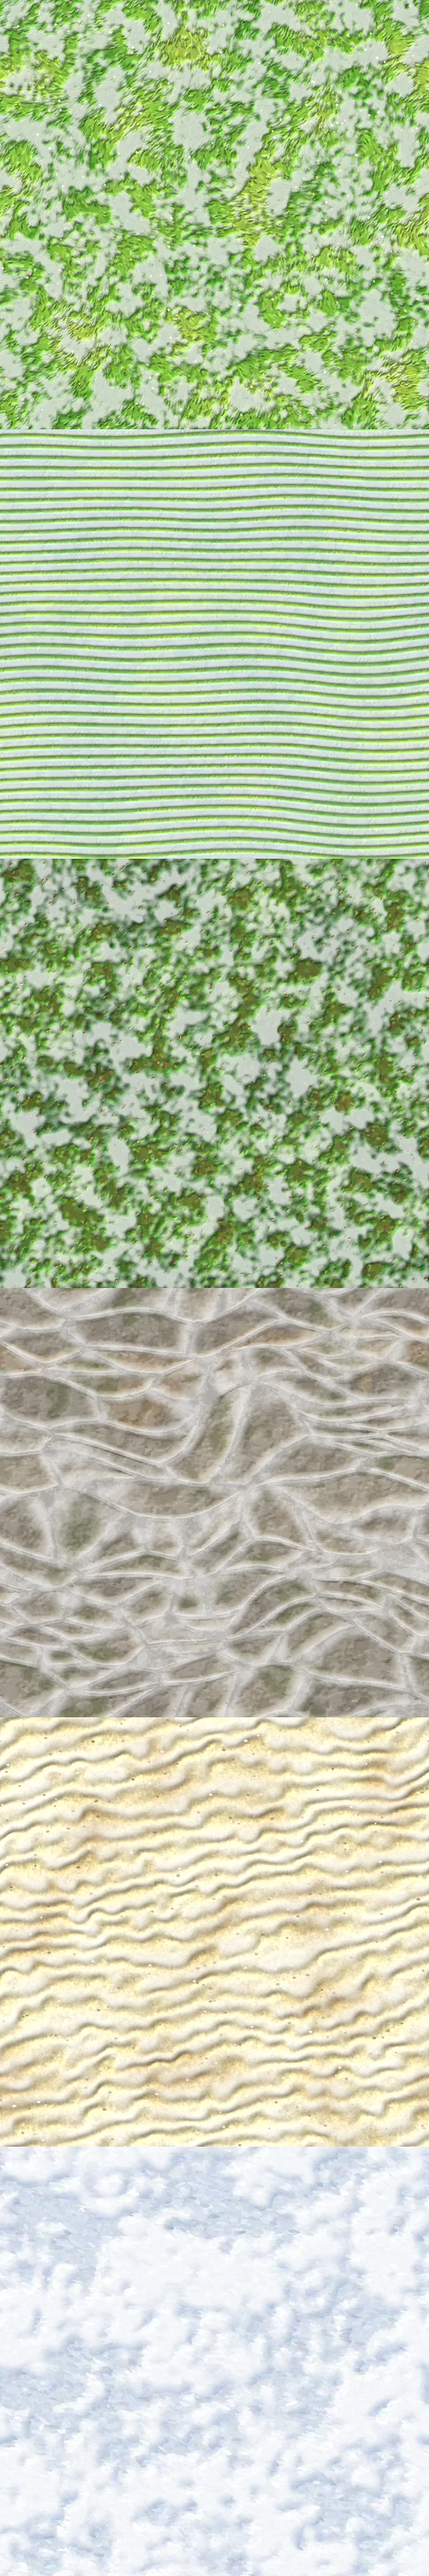
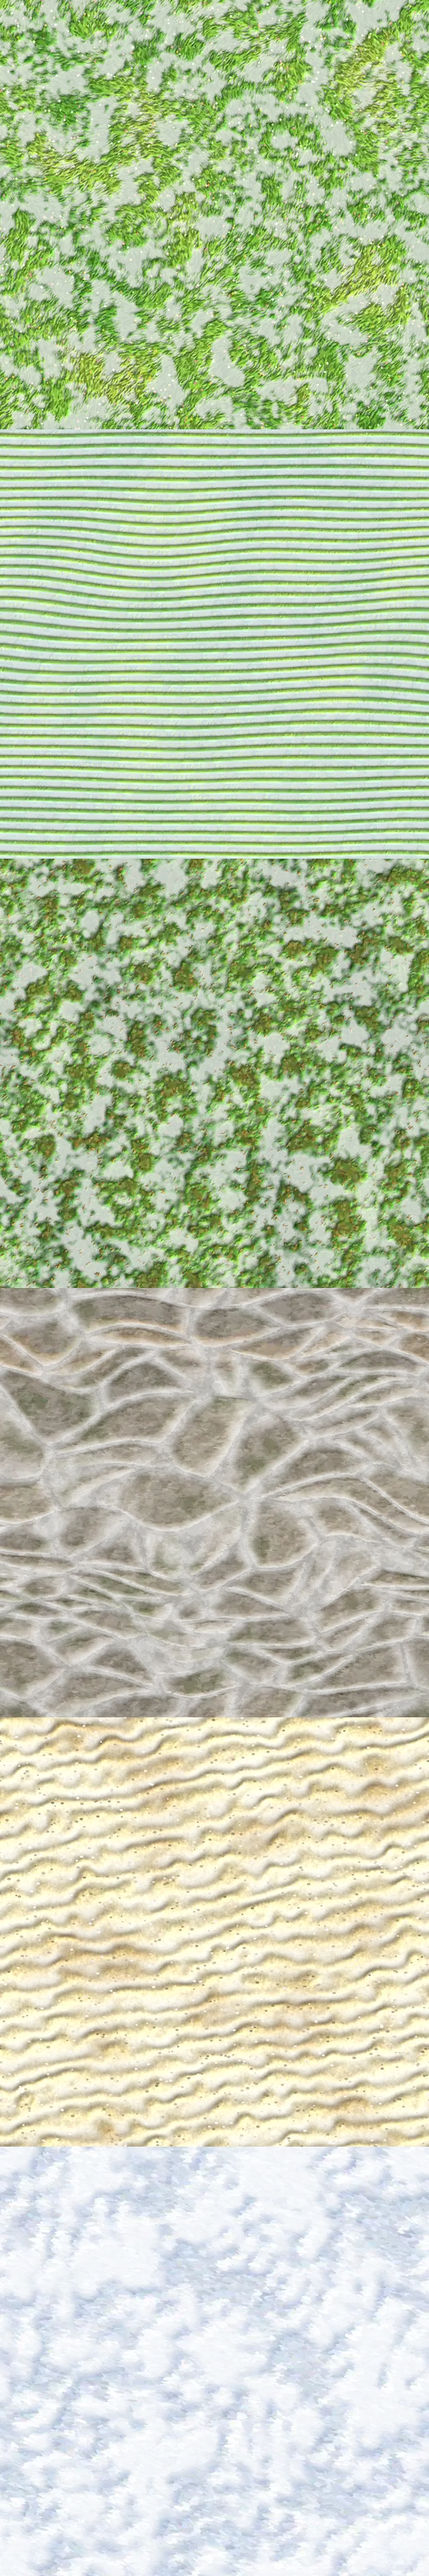
首次打开不卡：城市层和预演飞行放进加载画面；地形贴图加细到 1024² 并在后台无卡顿换上

diff --git a/v2-civ/src/scene.js b/v2-civ/src/scene.js
@@ -2,7 +2,7 @@ import * as THREE from 'three';
 // style.css is imported by main.js (shared with the flat fallback, lite.js)
 import { World, loadImage } from './world.js';
 import { CITIES, COMMUNITIES, HUB_CITIES } from './data.js';
-import { PatchTerrain, loadTerrainTextures, makeRippleTexture, makeTerrainMaterial, MAX_OWNERS } from './terrain.js';
+import { PatchTerrain, loadTerrainTextures, loadTerrainTexturesHD, makeRippleTexture, makeTerrainMaterial, MAX_OWNERS } from './terrain.js';
 import { setRenderer } from './assets.js';
 import { CivCamera } from './camera.js';
 import { buildProps } from './props.js';
@@ -252,12 +252,26 @@ async function init() {
   }
   progress(0.88, '正在营建城郭…');
   await terrainReady;
-  // A close start view (?view, ?open, ?region) builds its patch and every program it needs behind the loading bar.
-  // The country view needs none of that to show: the loader lifts at once, and 长三角 is warmed up in the background
-  // (scheduler) while the user looks at the map, before the first zoom-in.
+  // Everything the first minute needs is built behind the loading bar: the patch of a close start view (?view, ?open,
+  // ?region), else 长三角 (its programs cover the other patches, so the first zoom-in has nothing left to compile). This
+  // used to run in the background a few seconds after the country view showed, and stuttered the map the user was
+  // already looking at (8 frames of 60–310 ms on a desktop GPU); a slightly longer loading bar is the better trade.
   const sv = startView();
-  if (sv.d < FAR_D) await warmUp(true);
+  progress(0.9, '正在营建城郭…');
+  await warmUp(true, sv.d >= FAR_D);
+  // every other patch's mid tier (cities, districts, roads, rivers) too, nearest the start view first: each brings
+  // programs of its own (福建's buildings compiled for 600 ms) and was otherwise built during the first fly-in. The
+  // low tier keeps the shorter load and builds them on the way, as before.
+  if (Q.tier !== 'low') {
+    const rest = patches.filter((pa) => !pa.mid).sort((a, b) => rectDist(a.P, sv.x, sv.z) - rectDist(b.P, sv.x, sv.z));
+    for (const [i, pa] of rest.entries()) {
+      progress(0.9 + 0.05 * i / rest.length);
+      await buildMid(pa);
+      pa.mid.visible = false;
+    }
+  }
   progress(0.95, '即将完成…');
+  await settle();
   // window.__dbg.pins() prints the snapshot to commit as src/layout-pins.json after adding communities
   window.__dbg = { scene, cam, shared, paper, frame, buildLog, buildMid, buildNear, timed, renderer, camera, patches, COMMUNITIES, CITIES, select, focusCity, goRegion, REGIONS, perf, stats, Q, NAT_VIEW, pins: () => JSON.stringify(dumpPins(CITIES, COMMUNITIES), null, 2), get post() { return post; } };
   start();
@@ -275,7 +289,7 @@ const mapIsStill = () => {
   const now = performance.now();
   return now - window.__readyAt > WARM_DELAY_MS && now - lastInput > STILL_MS && !cam.fly && Math.abs(cam.goalDist - cam.dist) < cam.dist * 0.01;
 };
-async function warmUp(behindLoader = false) {
+async function warmUp(behindLoader = false, keepReveal = false) {
   warmed = true;
   const v = startView();
   const near = v.d < FAR_D && patches.find((p) => p.P === patchAt(v.x, v.z, -400));
@@ -285,17 +299,17 @@ async function warmUp(behindLoader = false) {
   if (!pa.near) await buildNear(pa);
   // the street-level render below resizes the canvas: in the background it runs at the start of a frame, which then
   // draws the canvas again before it is shown
-  if (behindLoader) warmRender(pa, true);
+  if (behindLoader) warmRender(pa, true, keepReveal);
   else await new Promise((res) => { warmQueue = () => { warmRender(pa, false); res(); }; });
 }
 let warmQueue = null;
 // the shadow-depth variants and the close-up post passes (screen-space AO) compile on first use: render the
 // patch once from street level, with the user's camera put back afterwards
-function warmRender(pa, behindLoader) {
+function warmRender(pa, behindLoader, keepReveal = false) {
   const saved = { x: cam.target.x, z: cam.target.z, d: cam.dist, goal: cam.goalDist, fly: cam.fly };
   const city = pa.cities[0];
   cam.fly = null; cam.target.set(city.x, 0, city.z + 4); cam.dist = cam.goalDist = 60; cam.apply();
-  if (behindLoader) { pa.revealT = T_REVEAL; pa.buildT = 0; }   // starting on this patch: no reveal animation
+  if (behindLoader && !keepReveal) { pa.revealT = T_REVEAL; pa.buildT = 0; }   // starting on this patch: no reveal animation
   // fine terrain chunks around the city: all of them behind the loader; in the background only the nearest one (it is
   // enough to compile the chunk programs and shadow variants), the rest are built a few per frame as usual
   const budget = behindLoader ? 2000 : 1;
@@ -321,6 +335,50 @@ function warmRender(pa, behindLoader) {
   farOn = null;
   for (const pp of patches) pp.terrain.update(camera, cam.dist > FAR_D, 0);   // back to the user's view
   if (behindLoader) growDistricts(pa);
+}
+
+// Still behind the loading bar: draw the start view for real until its first frames are cheap. The first draws upload
+// textures and finish programs (a 400 ms frame on a desktop GPU, longer on phones) and the national paper tiles for
+// the view are painted; the user sees none of it. Animation clocks are put back afterwards, so the land still rises
+// out of the paper once the loader lifts. Gives up after a few seconds on a very slow device rather than hang.
+async function settle() {
+  const keep = patches.map((pa) => [pa.revealT, pa.buildT]), t0 = performance.now(), time0 = shared.uniforms.uTime.value;
+  const step = async (dt = 0.016) => {
+    const f0 = performance.now();
+    last = f0 - dt * 1000;
+    frame();
+    patches.forEach((pa, i) => { [pa.revealT, pa.buildT] = keep[i]; });
+    await new Promise((r) => requestAnimationFrame(() => r()));
+    return performance.now() - f0;
+  };
+  const show = (x, z, d) => { cam.fly = null; cam.target.set(x, 0, z); cam.dist = cam.goalDist = d; cam.apply(); return step(); };
+  // paper tiles still being painted for the current view (and where the camera is heading): wait for them, briefly
+  const paperDone = async (ms) => { const t = performance.now(); while ((paper.pending.size || paper.wanted.size) && performance.now() - t < ms) await step(); };
+  // first the views a first visit goes to (each patch from above, a city close up): their first draw uploads the
+  // buildings' vertex buffers and builds the finer terrain chunks, which otherwise stalled the first fly-in
+  if (Q.tier !== 'low') {
+    for (const pa of patches) if (pa.mid) { const o = patchOverview(pa.P); await show(o.x, o.z, o.d); await show(o.x, o.z, o.d); }
+    // then the most common first trip for real, country → 杭州 and back: it paints the national paper tiles along the
+    // way (each finished tile stalled the first real flight for 50–250 ms) and builds the terrain chunks it passes
+    const hz = CITIES.find((c) => c.id === 'hangzhou') || CITIES[0];
+    const v0 = startView();
+    for (const [k, [x, z, d, sec]] of [[hz.x, hz.z + 4, 70, 1.4], [v0.x, v0.z, v0.d, 2.2]].entries()) {
+      cam.flyTo(x, z, d, sec, 0);
+      for (let i = 0; i < 400 && cam.fly; i++) { await step(0.045); progress(0.95 + 0.02 * k + 0.02 * Math.min(1, cam.fly ? cam.fly.t / cam.fly.dur : 1)); }
+      await paperDone(mobile ? 2500 : 1200);
+    }
+  }
+  progress(0.99, '即将完成…');
+  const v = startView();
+  let n = 0, cheap = 0;
+  while (performance.now() - t0 < (mobile ? 12000 : 8000)) {
+    const ms = await show(v.x, v.z, v.d);
+    n++;
+    cheap = ms < 40 ? cheap + 1 : 0;
+    if (n >= 4 && cheap >= 3 && !paper.pending.size && !paper.step()) break;
+  }
+  shared.uniforms.uTime.value = time0;
+  buildLog.push(['settle', Math.round(performance.now() - t0), n]);
 }
 
 // ---------- detail levels (M2) ----------
@@ -714,6 +772,15 @@ function start() {
     }
   }
   renderer.setAnimationLoop(qs.get('idle') === '0' ? frame : loop);
+  // the finer painted ground (1024 px layers, public/tex/terrain-hd.webp, about 1.4 MB): fetched after the map shows,
+  // swapped in when decoded. The first load uses the 512 px set; the low tier keeps it.
+  if (Q.tier !== 'low') setTimeout(() => loadTerrainTexturesHD(BASE + 'tex/terrain-hd.webp', renderer).then(({ texture, step }) => {
+    const up = () => {
+      if (!step()) { requestAnimationFrame(up); return; }
+      const old = shared.uniforms.uTerr.value; shared.uniforms.uTerr.value = texture; old.dispose(); wake();
+    };
+    requestAnimationFrame(up);
+  }).catch((e) => console.warn('terrain-hd', e)), 1500);
   if (qs.has('bench')) {
     const tReady = performance.now();
     let n = 0; const t0 = performance.now();

diff --git a/v2-civ/src/terrain.js b/v2-civ/src/terrain.js
@@ -23,6 +23,42 @@ export async function loadTerrainTextures(url) {
   return t;
 }
 
+// The finer layer set (terrain-hd.webp) swapped in after the map shows, without a stall: decoded to raw pixels off the
+// main thread (createImageBitmap + OffscreenCanvas in a worker; a browser without them decodes here), then uploaded one
+// layer per call of step() — each layer is about 4 MB, the whole set in one call held a frame for 160 ms. step()
+// returns true once every layer is on the GPU; until then the 512 px set stays in use.
+export async function loadTerrainTexturesHD(url, renderer) {
+  const src = `onmessage = async (e) => {
+    const b = await (await fetch(e.data)).blob();
+    const im = await createImageBitmap(b, { colorSpaceConversion: 'none', premultiplyAlpha: 'none' });
+    const c = new OffscreenCanvas(im.width, im.height).getContext('2d', { willReadFrequently: true });
+    c.drawImage(im, 0, 0);
+    const d = c.getImageData(0, 0, im.width, im.height).data;
+    postMessage({ w: im.width, h: im.height, d }, [d.buffer]);
+  };`;
+  let px;
+  try {
+    const w = new Worker(URL.createObjectURL(new Blob([src], { type: 'text/javascript' })));
+    px = await new Promise((res, rej) => { w.onmessage = (e) => { w.terminate(); res(e.data); }; w.onerror = rej; w.postMessage(new URL(url, location.href).href); });
+  } catch (e) {
+    const img = await loadImage(url);
+    const c = document.createElement('canvas'); c.width = img.width; c.height = img.height;
+    const g = c.getContext('2d', { willReadFrequently: true }); g.drawImage(img, 0, 0);
+    px = { w: img.width, h: img.height, d: g.getImageData(0, 0, img.width, img.height).data };
+  }
+  const n = Math.round(px.h / px.w);
+  const t = new THREE.DataArrayTexture(new Uint8Array(px.d.buffer), px.w, px.w, n);
+  t.format = THREE.RGBAFormat; t.type = THREE.UnsignedByteType;
+  t.colorSpace = THREE.SRGBColorSpace;
+  t.wrapS = t.wrapT = THREE.RepeatWrapping;
+  t.magFilter = THREE.LinearFilter; t.minFilter = THREE.LinearMipmapLinearFilter;
+  t.generateMipmaps = true; t.anisotropy = 4;
+  // first upload allocates the whole array (texStorage3D) and copies layer 0 only; then one layer per step()
+  let next = 0;
+  const step = () => { t.addLayerUpdate(next++); t.needsUpdate = true; renderer.initTexture(t); return next >= n; };
+  return { texture: t, step };
+}
+
 // Tileable water ripple map built at load time (no download): RG = normal xy, B = foam breakup, A = height.
 export function makeRippleTexture(n = 256) {
   const R = rng(77);
@@ -89,11 +125,11 @@ const vec3 C_DIST  = ${S('#a39674')};
 const vec3 C_SAND  = ${S('#dfcc90')};
 const vec3 C_ROCK  = ${S('#8a8274')};
 const vec3 C_PAPER = ${S('#e4d0a4')};
-const vec3 M_GRASS = ${M(97.4, 149.9, 50.9)};
-const vec3 M_PADDY = ${M(111.7, 161.8, 103.0)};
-const vec3 M_FOREST = ${M(68.3, 109.6, 42.4)};
-const vec3 M_ROCK = ${M(127.2, 119.6, 103.8)};
-const vec3 M_SAND = ${M(218.3, 203.3, 152.4)};
+const vec3 M_GRASS = ${M(94.0, 142.1, 49.5)};
+const vec3 M_PADDY = ${M(112.2, 162.4, 105.5)};
+const vec3 M_FOREST = ${M(77.6, 116.5, 44.8)};
+const vec3 M_ROCK = ${M(127.6, 120.0, 104.1)};
+const vec3 M_SAND = ${M(217.7, 202.7, 152.4)};
 const vec3 M_SNOW = ${M(213.1, 222.0, 234.8)};
 
 vec2 gdx, gdy; // screen derivatives of world xz, taken once in uniform control flow
@@ -105,6 +141,14 @@ vec4 layer2(float L, vec2 p, float tile){
   vec2 q = mat2(0.8, -0.6, 0.6, 0.8) * p + 13.7;
   vec4 b = textureGrad(uTerr, vec3(q / (tile * 3.3), L), mat2(0.8, -0.6, 0.6, 0.8) * gdx / (tile * 3.3), mat2(0.8, -0.6, 0.6, 0.8) * gdy / (tile * 3.3));
   a = mix(a, b, 0.32);
+  // close up: a finer, rotated octave of the same strokes, so a texel never covers several pixels at street level
+  float fine = 1.0 - smoothstep(0.012, 0.05, max(length(gdx), length(gdy)) / tile * 4.0);
+  if (fine > 0.01) {
+    vec2 q2 = mat2(0.6, 0.8, -0.8, 0.6) * p - 5.3;
+    vec4 c = textureGrad(uTerr, vec3(q2 / (tile * 0.31), L), mat2(0.6, 0.8, -0.8, 0.6) * gdx / (tile * 0.31), mat2(0.6, 0.8, -0.8, 0.6) * gdy / (tile * 0.31));
+    a.rgb = mix(a.rgb, a.rgb * (0.78 + 0.44 * c.a), 0.55 * fine);
+    a.a = mix(a.a, a.a * 0.7 + c.a * 0.3, fine);
+  }
 #endif
   return a;
 }

diff --git a/v2-civ/scripts/paint_textures.py b/v2-civ/scripts/paint_textures.py
@@ -1,5 +1,6 @@
-"""程序化绘制地表手绘风无缝贴图 → public/tex/terrain.webp
-6 层竖排（每层 512×512，RGB = 颜色，A = 高度，用于高度混合）：
+"""程序化绘制地表手绘风无缝贴图 → public/tex/terrain-hd.webp（每层 1024²，进入画面后后台换上）
+                                 + public/tex/terrain.webp（同一张缩到 512²，首屏和低档设备用）
+6 层竖排（RGB = 颜色，A = 高度，用于高度混合）：
 0 草地  1 水田  2 林地  3 山石  4 沙滩  5 雪地
 用法：python3 scripts/paint_textures.py [--preview]（--preview 另存 2×2 平铺预览到 /tmp/igcm-tex/）
 所有噪声用 FFT 生成（天然周期），笔触绕边重画，所以四方连续。
@@ -11,9 +12,11 @@ from PIL import Image, ImageDraw
 from scipy.spatial import cKDTree
 
 ROOT = Path(__file__).resolve().parent.parent
-N = 1024          # 绘制分辨率（输出时缩到 512，相当于抗锯齿）
-OUT = 512
+N = 2048          # 绘制分辨率（输出时缩到 1024，相当于抗锯齿）
+OUT = 1024        # 输出 1024：近景能看清笔触（原 512）
 QUALITY = 62
+HD_QUALITY, HD_ALPHA = 50, 40
+S = N / 1024      # 笔触尺寸按绘制分辨率缩放（尺寸写的是 1024 画布上的像素）
 
 
 def noise(lo, hi, seed, beta=1.0, n=N):
@@ -49,8 +52,9 @@ def poster(x, levels, soft=0.25):
 
 def shade(h, k=1.0, light=(-0.6, -0.8)):
     """由高度场算假光照（左上来光）"""
-    dx = (np.roll(h, -2, 1) - np.roll(h, 2, 1)) * 0.25
-    dy = (np.roll(h, -2, 0) - np.roll(h, 2, 0)) * 0.25
+    k2 = int(2 * S)
+    dx = (np.roll(h, -k2, 1) - np.roll(h, k2, 1)) * 0.25 / S
+    dy = (np.roll(h, -k2, 0) - np.roll(h, k2, 0)) * 0.25 / S
     return np.clip(1 + k * (dx * light[0] + dy * light[1]) * N / 64, 0.55, 1.45)
 
 
@@ -68,11 +72,11 @@ def strokes(img, color_at, n, seed, length, width, angle_at=None, jitter=0.08, s
     """在 img 上画 n 个笔触；颜色从 color_at(x,y) 取，带抖动"""
     r = np.random.default_rng(seed)
     d = ImageDraw.Draw(img)
-    for _ in range(n):
+    for _ in range(int(n * S * S)):
         x, y = r.random() * N, r.random() * N
         ix, iy = int(x) % N, int(y) % N
         if mask is not None and r.random() > mask[iy, ix]: continue
-        L = r.uniform(*length); W = r.uniform(*width)
+        L = r.uniform(*length) * S; W = r.uniform(*width) * S
         a = angle_at(ix, iy) if angle_at else r.random() * np.pi
         a += r.normal(0, 0.25)
         c = color_at(ix, iy) * (1 + r.normal(0, jitter, 3) * 0.6 + r.normal(0, jitter))
@@ -124,10 +128,10 @@ def grass():
     c *= shade(h, 0.5)[..., None]
     # 小花
     r = np.random.default_rng(14); d = ImageDraw.Draw(img := to_img(c))
-    for _ in range(260):
+    for _ in range(int(260 * S * S)):
         x, y = r.random() * N, r.random() * N
         col = [(244, 238, 214), (246, 206, 70), (236, 150, 160)][r.integers(3)]
-        s = r.uniform(2.2, 3.6)
+        s = r.uniform(2.2, 3.6) * S
         wrap_draw(d, [(x - s, y), (x, y - s), (x + s, y), (x, y + s)], col)
     return from_img(img), h
 
@@ -136,7 +140,7 @@ def paddy():
     # 一排排秧苗（纹理里横向成行），行间露水；A 通道 = 秧苗覆盖
     n1, n2 = noise(2, 8, 21), noise(10, 40, 22)
     rows = 40                       # 每张图 40 行
-    yy = (np.arange(N)[:, None] + noise(1, 3, 23) * 6) / N * rows
+    yy = (np.arange(N)[:, None] + noise(1, 3, 23) * 6 * S) / N * rows
     rowm = sstep(0.18, 0.42, 0.5 - np.abs((yy % 1) - 0.5)) * np.ones((1, N))
     base = lerp(hexc('#5d9a33'), hexc('#8fbd45'), sstep(-1.5, 1.5, n1 + n2 * 0.4))
     water = lerp(hexc('#5a8c84'), hexc('#8ab8b0'), sstep(-1, 1.5, n2))
@@ -147,19 +151,19 @@ def paddy():
     # 每行上的秧苗簇：几片向上张开的叶
     for row in range(rows):
         y0 = (row + 0.5) / rows * N
-        x = r.random() * 8
+        x = r.random() * 8 * S
         while x < N:
             ix = int(x) % N; iy = int(y0) % N
             col0 = base[iy, ix]
             for k in range(4):
                 a = -np.pi / 2 + r.normal(0, 0.55)
-                L, W = r.uniform(7, 13), r.uniform(2, 3.5)
-                cx, cy = x + r.normal(0, 1.2), y0 + r.normal(0, 1.5) + 2
+                L, W = r.uniform(7, 13) * S, r.uniform(2, 3.5) * S
+                cx, cy = x + r.normal(0, 1.2) * S, y0 + (r.normal(0, 1.5) + 2) * S
                 col = tuple(int(v) for v in np.clip(col0 * (1 + r.normal(0, 0.09)) * (1.1 if k == 0 else 0.92) * 255, 0, 255))
                 ca, sa = np.cos(a), np.sin(a)
                 pts = [(0, 0), (L * 0.45, -W * 0.5), (L, 0), (L * 0.45, W * 0.5)]
                 wrap_draw(d, [(cx + px * ca - py * sa, cy + px * sa + py * ca) for px, py in pts], col)
-            x += r.uniform(9, 14)
+            x += r.uniform(9, 14) * S
     c = from_img(img)
     h = np.clip(rowm * 0.75 + sstep(-1, 1, n2) * 0.2 + (c.mean(2) - water.mean(2)) * 0.8, 0, 1)
     c *= shade(h, 0.35)[..., None]
@@ -205,8 +209,8 @@ def rock():
     h = np.clip(bevel * 0.75 + sstep(-2, 2, n2 + n3 * 0.4) * 0.25, 0, 1)
     lit = shade(h, 1.0)
     c *= poster(np.clip((lit - 0.55) / 0.9, 0, 1), 4, 0.35)[..., None] * 0.4 + 0.8
-    below = np.roll(crack, 7, 0) * (1 - crack)      # 裂隙下方阴影（岩檐）
-    above = np.roll(crack, -3, 0) * (1 - crack)     # 上沿亮边
+    below = np.roll(crack, int(7 * S), 0) * (1 - crack)      # 裂隙下方阴影（岩檐）
+    above = np.roll(crack, -int(3 * S), 0) * (1 - crack)     # 上沿亮边
     c = lerp(c, c * 0.62, np.clip(below, 0, 1) * 0.8)
     c = lerp(c, c * 1.18, np.clip(above, 0, 1) * 0.6)
     c = lerp(c, hexc('#3a352e'), crack * 0.85)
@@ -229,9 +233,9 @@ def sand():
     c *= 1 + n3[..., None] * 0.045
     img = to_img(c)
     r = np.random.default_rng(55); d = ImageDraw.Draw(img)
-    for _ in range(420):   # 小石子/贝壳
+    for _ in range(int(420 * S * S)):   # 小石子/贝壳
         x, y = r.random() * N, r.random() * N
-        s = r.uniform(2, 4.5)
+        s = r.uniform(2, 4.5) * S
         col = tuple(int(v) for v in np.clip(hexc(['#b39a72', '#f6efe0', '#9a8466'][r.integers(3)]) * 255, 0, 255))
         wrap_draw(d, [(x + np.cos(t) * s, y + np.sin(t) * s * 0.7) for t in np.linspace(0, 6.28, 7, endpoint=False)], col)
     return from_img(img), h
@@ -265,10 +269,19 @@ def main():
         print(nm, 'mean rgb', np.asarray(im)[..., :3].reshape(-1, 3).mean(0).round(1))
     strip = Image.new('RGBA', (OUT, OUT * len(tiles)))
     for i, t in enumerate(tiles): strip.paste(t, (0, i * OUT))
-    out = ROOT / 'public/tex/terrain.webp'
+    out = ROOT / 'public/tex/terrain-hd.webp'
     out.parent.mkdir(parents=True, exist_ok=True)
-    strip.save(out, 'WEBP', quality=QUALITY, alpha_quality=45, method=6, exact=True)
+    strip.save(out, 'WEBP', quality=HD_QUALITY, alpha_quality=HD_ALPHA, method=6, exact=True)
     print(f'→ {out.relative_to(ROOT)}  {out.stat().st_size / 1024:.0f} KB')
+    # 首屏用的 512² 版：同一张图缩小（RGB 和 A 分开缩，同上）
+    small = Image.new('RGBA', (512, 512 * len(tiles)))
+    for i, t in enumerate(tiles):
+        rgb = t.convert('RGB').resize((512, 512), Image.LANCZOS)
+        al = t.getchannel('A').resize((512, 512), Image.LANCZOS)
+        rgb.putalpha(al); small.paste(rgb, (0, i * 512))
+    out2 = ROOT / 'public/tex/terrain.webp'
+    small.save(out2, 'WEBP', quality=QUALITY, alpha_quality=45, method=6, exact=True)
+    print(f'→ {out2.relative_to(ROOT)}  {out2.stat().st_size / 1024:.0f} KB')
     if '--preview' in sys.argv:
         pv = Path('/tmp/igcm-tex'); pv.mkdir(exist_ok=True)
         for t, nm in zip(tiles, names):

diff --git a/docs/全国版优化方案.md b/docs/全国版优化方案.md
@@ -274,3 +274,33 @@
 ### 测量中碰到的问题
 
 - 测量中偶尔出现地形上整片三角形明暗块（像网格的每个三角面单独着色）。它在 WebP 版和 KTX2 版上都出现过、O2/O3 提交版本的重复测试里没出现，一出现就一直存在直到刷新，重新上传地形贴图、重建 mipmap、关阴影、换分辨率都不能让它消失；之后又连续测了 KTX2、O3、O2 各 8 次加 WebP、KTX2 各 12 次，都没再出现。WebP 版也出过，所以看不出和 KTX2 有关；当时这台机器同时开着十几个测试浏览器，可能与显卡驱动在高负载下出错有关，原因没查清，记为待查。真机上若有人看到同样的三角块，再回来查。
+
+## 11. 首次打开不卡、地形贴图加细（2026-11-18）
+
+用户反馈：第一次打开网站还是比较卡。要求：加载可以久一点，进入画面后不卡；地形材质再细一些。
+
+### 卡在哪
+
+以前全国视图一出来就撤掉加载画面，2.5 秒后在后台建长三角（编译着色器、上传顶点和贴图），第一次飞进某个城市时再建沿途的大区、画纸张瓦片、建更细的地形块。用户正在看的画面因此一卡一卡。实测（桌面 GPU，生产构建，冷缓存）：
+
+| | 改前 | 改后 |
+|---|---|---|
+| 加载画面撤掉 | 2.9 秒 | 13–15 秒（手机模拟 4× 降速：19 秒） |
+| 进入画面后 25 秒内超过 50 ms 的帧 | 13 帧，最长 401 ms，共 1.8 秒 | 0–3 帧，最长 78 ms |
+| 第一次飞到杭州 | 17 帧，共 1.8 秒，最长 250 ms | 4–10 帧，最长约 110 ms |
+| 第二次飞到杭州 | 4 帧 | 0 帧 |
+
+### 改了什么（`src/scene.js`）
+
+1. **全部放在加载画面后面做**：长三角的城市、近景、着色器（以前在后台），再加其余各大区的城市层（以前第一次飞过去时才建），离起始视图近的先建。低档设备（low）仍然只建长三角，加载短一些。
+2. **`settle()` 预演**：加载画面撤掉前，真实渲染几十帧——每个大区俯视两帧（上传建筑顶点、建地形块），再按真实速度飞一趟"全国 → 杭州 → 全国"（沿途纸张瓦片画好、细地形块建好），最后停在起始视图，直到连续几帧都便宜、纸张瓦片都画完。动画时钟和"大地从纸上升起"的进度都会还原，所以撤掉加载画面后入场动画照常。手机最多 12 秒、桌面最多 8 秒，超时就不等了。
+3. 进度条在这一段也会走（88% → 99%），文字是"正在营建城郭…""即将完成…"。
+
+### 地形贴图（`scripts/paint_textures.py`、`src/terrain.js`）
+
+- 六层手绘贴图从每层 512² 改成 **1024²**（在 2048² 画布上画，笔触数量和尺寸按分辨率放大，密度不变、单笔更细）。
+- 首屏仍用 512² 版（`tex/terrain.webp`，557 KB，由同一张图缩小，画面一致）；地图出来 1.5 秒后后台下载 **`tex/terrain-hd.webp`**（1.4 MB），在 Worker 里解码成像素，每帧上传一层，六层都到 GPU 后再换上。一次性整体上传会卡一帧 160 ms，这样拆开以后没有卡顿。低档设备不下载高清版。
+- 着色器近景多一个旋转、缩小的细节层（只在很近、桌面档时），街景下草地、林地、岩石看得出笔触，不再是一片糊的绿。
+- 重画贴图后各层平均色略变，着色器里的 `M_GRASS` 等平均色同步更新，整体色调不变。
+
+重画贴图：`PYTHONPATH=D:/workbuddy_space/.pydeps <Blender 自带 python> scripts/paint_textures.py`（约 1 分钟，同时写出两个文件）。
